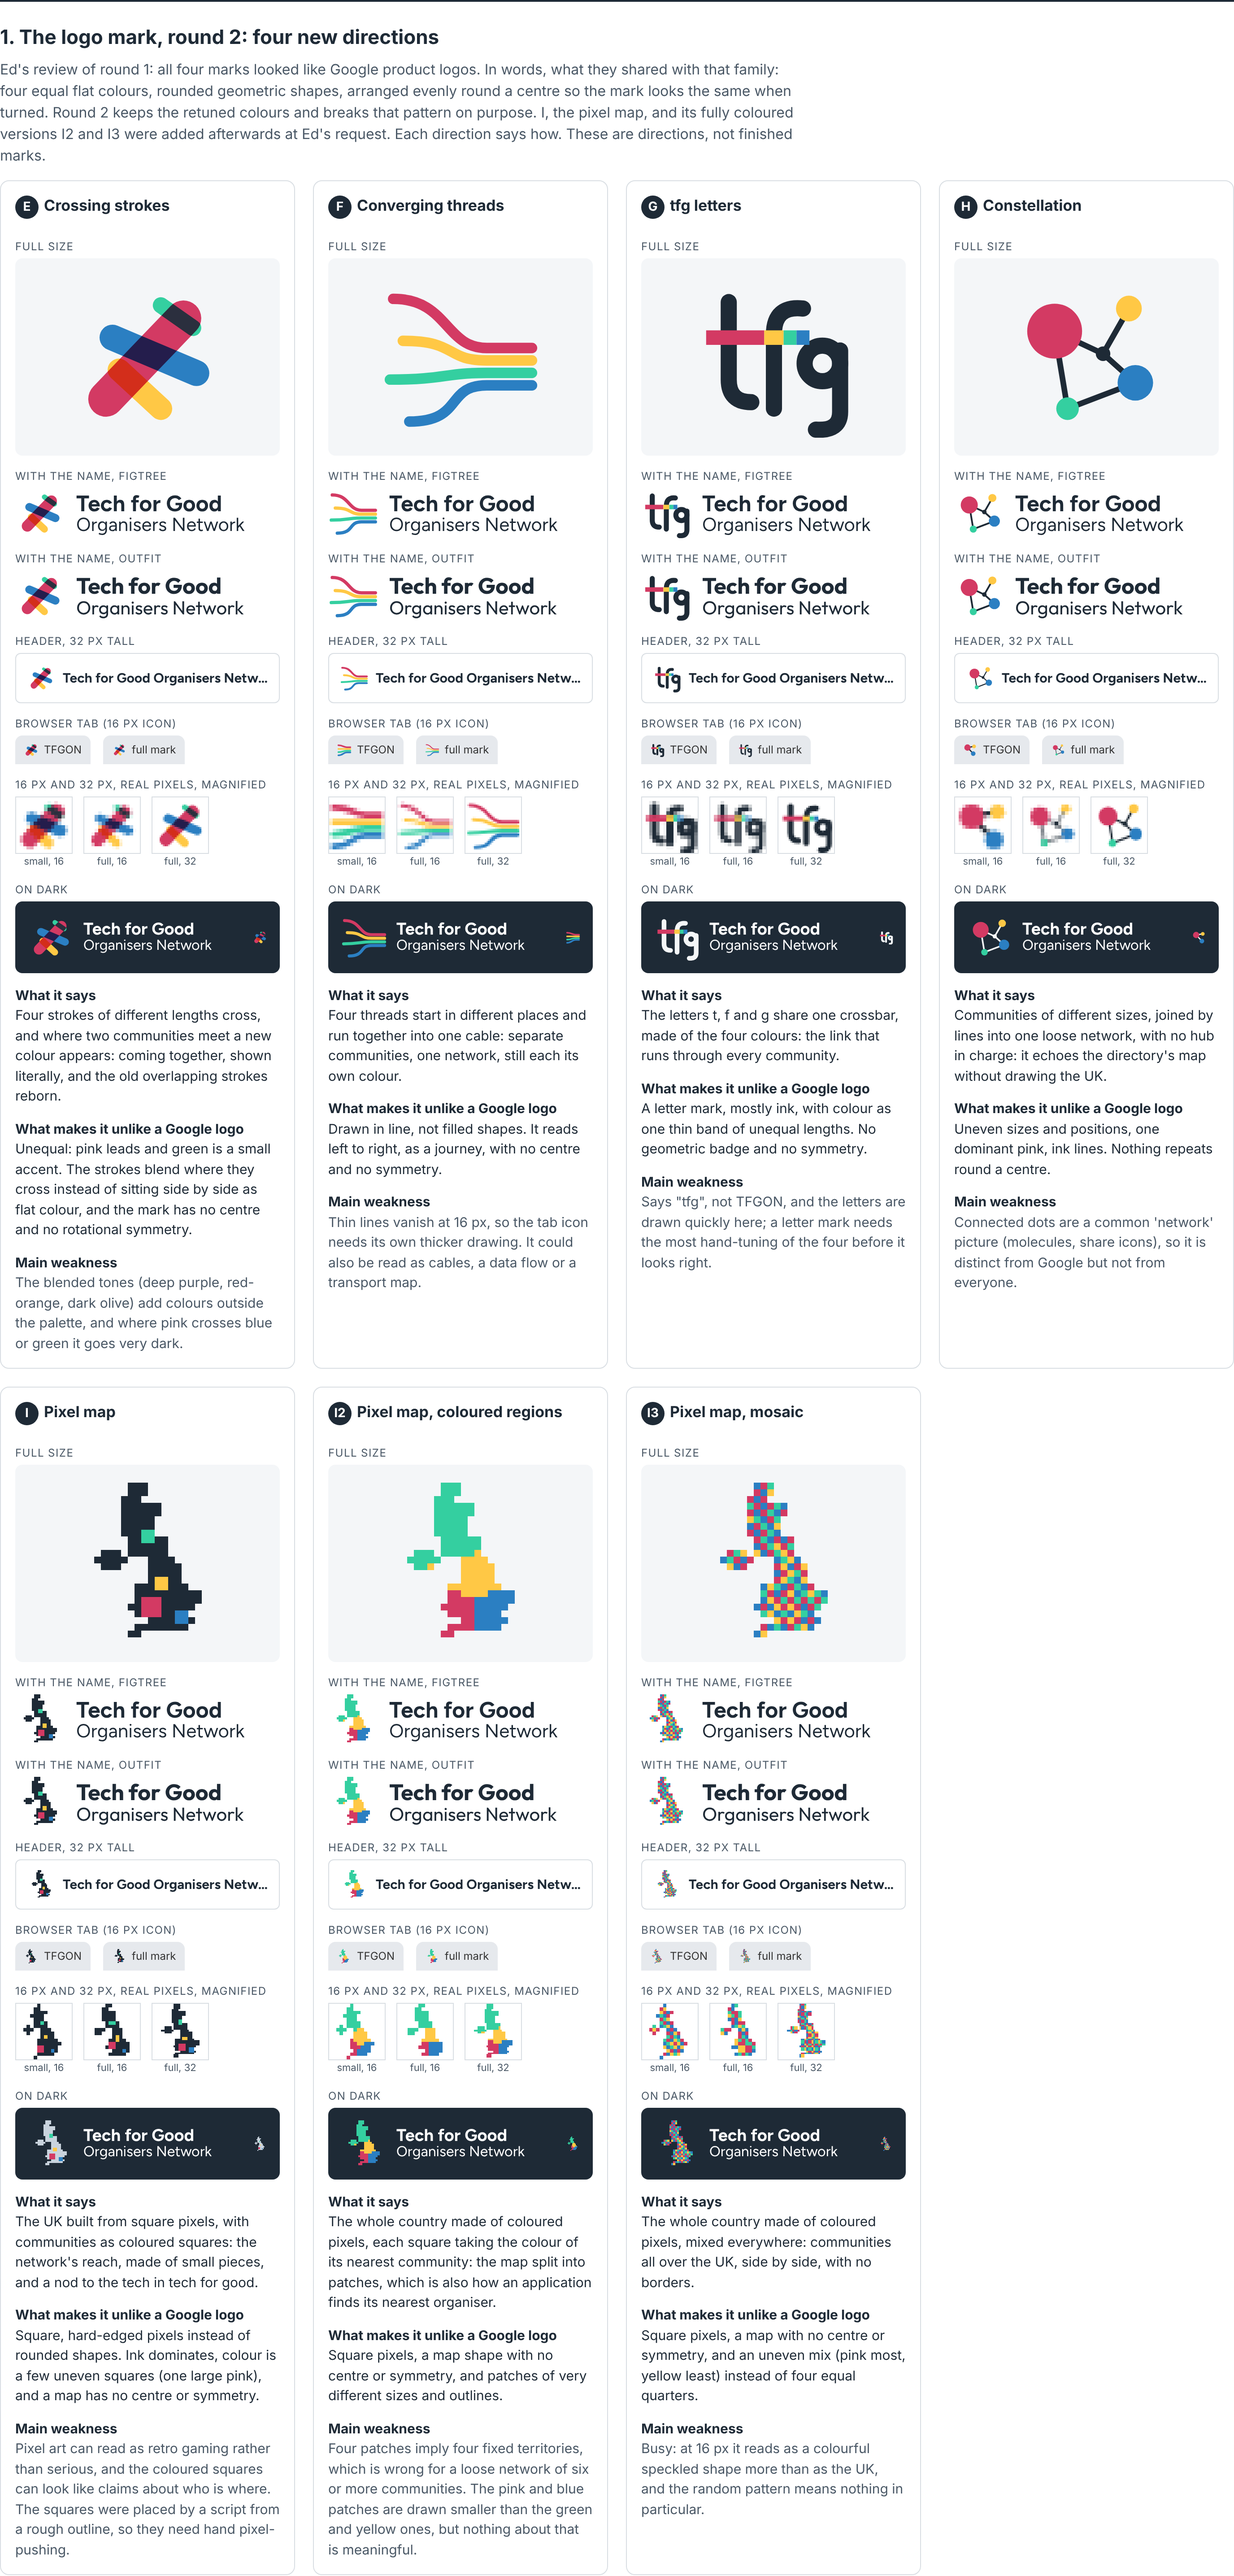
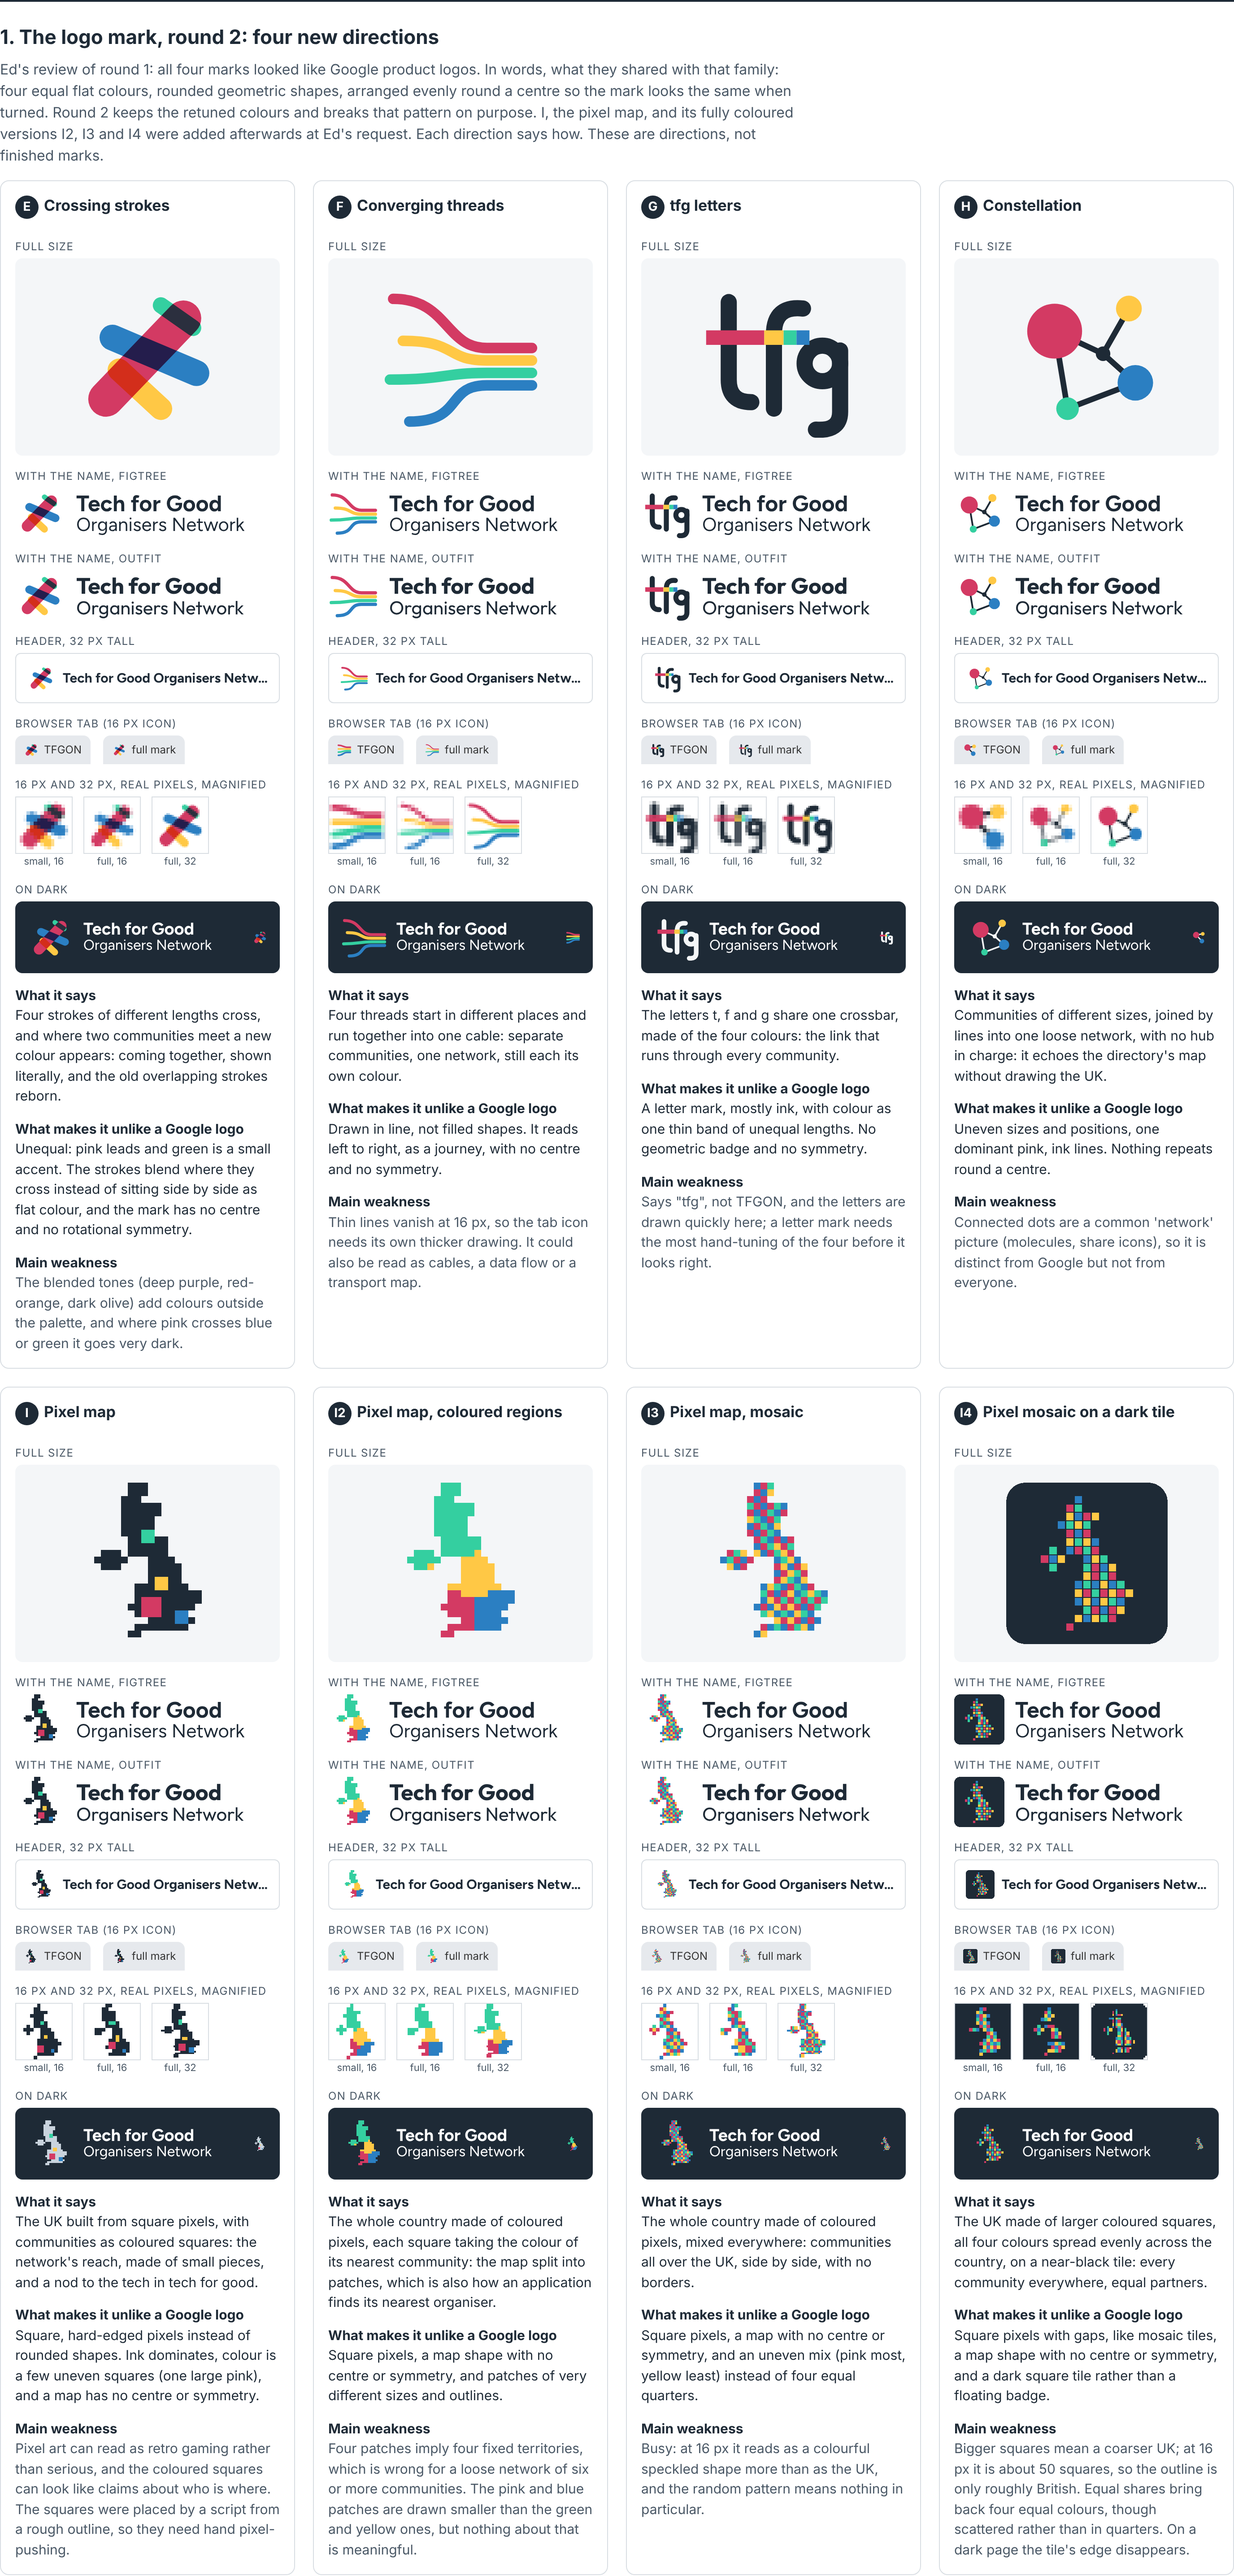
Design drafts round 2: I4, the pixel mosaic with larger, evenly spread squares on a dark tile (Ed's request)
Claude-Session: https://claude.ai/code/session_018uvzSPoLJKUx3o3mPuMkSG

Changed region(s): [[0.75, 0.5609, 1.0, 1.0], [0.7812, 0.5298, 0.8125, 0.5609]]

diff --git a/design/index.html b/design/index.html
@@ -110,7 +110,7 @@ th { background: var(--wash); }
 
 <section id="marks2">
 <h2>1. The logo mark, round 2: four new directions</h2>
-<p class="lede">Ed's review of round 1: all four marks looked like Google product logos. In words, what they shared with that family: four equal flat colours, rounded geometric shapes, arranged evenly round a centre so the mark looks the same when turned. Round 2 keeps the retuned colours and breaks that pattern on purpose. I, the pixel map, and its fully coloured versions I2 and I3 were added afterwards at Ed's request. Each direction says how. These are directions, not finished marks.</p>
+<p class="lede">Ed's review of round 1: all four marks looked like Google product logos. In words, what they shared with that family: four equal flat colours, rounded geometric shapes, arranged evenly round a centre so the mark looks the same when turned. Round 2 keeps the retuned colours and breaks that pattern on purpose. I, the pixel map, and its fully coloured versions I2, I3 and I4 were added afterwards at Ed's request. Each direction says how. These are directions, not finished marks.</p>
 <div class="concepts" id="concepts2"></div>
 </section>
 
@@ -240,6 +240,10 @@ const concepts2 = [
     says: "The whole country made of coloured pixels, mixed everywhere: communities all over the UK, side by side, with no borders.",
     unlike: "Square pixels, a map with no centre or symmetry, and an uneven mix (pink most, yellow least) instead of four equal quarters.",
     weak: "Busy: at 16 px it reads as a colourful speckled shape more than as the UK, and the random pattern means nothing in particular." },
+  { id: "i4", name: "Pixel mosaic on a dark tile", full: "i4-pixel-mosaic-tile.svg", small: "i4-pixel-mosaic-tile-small.svg", dark: "i4-pixel-mosaic-tile.svg",
+    says: "The UK made of larger coloured squares, all four colours spread evenly across the country, on a near-black tile: every community everywhere, equal partners.",
+    unlike: "Square pixels with gaps, like mosaic tiles, a map shape with no centre or symmetry, and a dark square tile rather than a floating badge.",
+    weak: "Bigger squares mean a coarser UK; at 16 px it is about 50 squares, so the outline is only roughly British. Equal shares bring back four equal colours, though scattered rather than in quarters. On a dark page the tile's edge disappears." },
 ];
 function render(list, gridId) {
 const grid = document.getElementById(gridId);

diff --git a/design/tools/pixelmap.py b/design/tools/pixelmap.py
@@ -95,3 +95,40 @@ def write_coloured():
 
 if __name__ == "__main__":
     write_coloured()
+
+
+# I4: the mosaic with larger squares, colours spread evenly, on a dark tile (Ed, 2026-11-27).
+def even_mosaic(rows, box, label, gap=0.0, radius=2, seed=3):
+    """Map on `rows` squares, centred in a `box` x `box` dark tile.
+    Each square takes the colour least used among squares already placed within `radius`
+    (ties broken by a fixed-seed shuffle), so all four colours spread evenly, in equal shares,
+    and no two touching squares match."""
+    import random
+    rng = random.Random(seed)
+    g, _ = grid(rows)
+    cols = len(g[0])
+    used = [c for c in range(cols) if any(g[r][c] for r in range(rows))]
+    c0, c1 = min(used), max(used)
+    ox = (box - (c1 - c0 + 1)) / 2; oy = (box - rows) / 2
+    placed = {}
+    pal = [PINK, YELLOW, GREEN, BLUE]
+    for r in range(rows):
+        for c in range(c0, c1 + 1):
+            if not g[r][c]: continue
+            near = [placed[(rr, cc)] for (rr, cc) in placed if abs(rr - r) <= radius and abs(cc - c) <= radius]
+            touching = {placed.get((r, c - 1)), placed.get((r - 1, c)), placed.get((r - 1, c - 1)), placed.get((r - 1, c + 1))}
+            opts = [p for p in pal if p not in touching] or pal
+            rng.shuffle(opts)
+            placed[(r, c)] = min(opts, key=lambda p: near.count(p))
+    s = 1 - gap
+    rects = [f'  <rect x="{c - c0 + ox + gap/2:g}" y="{r + oy + gap/2:g}" width="{s:g}" height="{s:g}" fill="{col}"/>' for (r, c), col in placed.items()]
+    tile = f'  <rect width="{box}" height="{box}" rx="{box * 0.12:g}" fill="{INK}"/>'
+    counts = {p: list(placed.values()).count(p) for p in pal}
+    return (f'<svg xmlns="http://www.w3.org/2000/svg" viewBox="0 0 {box} {box}" shape-rendering="crispEdges" role="img" aria-label="TFGON mark: {label}">\n{tile}\n' + "\n".join(rects) + "\n</svg>\n", counts)
+
+if __name__ == "__main__":
+    full, n1 = even_mosaic(16, 19, "even pixel mosaic on a dark tile", gap=0.12)
+    small, n2 = even_mosaic(14, 16, "even pixel mosaic on a dark tile, small")
+    (OUT / "i4-pixel-mosaic-tile.svg").write_text(full)
+    (OUT / "i4-pixel-mosaic-tile-small.svg").write_text(small)
+    print("I4 colour counts, full:", n1, "small:", n2)
